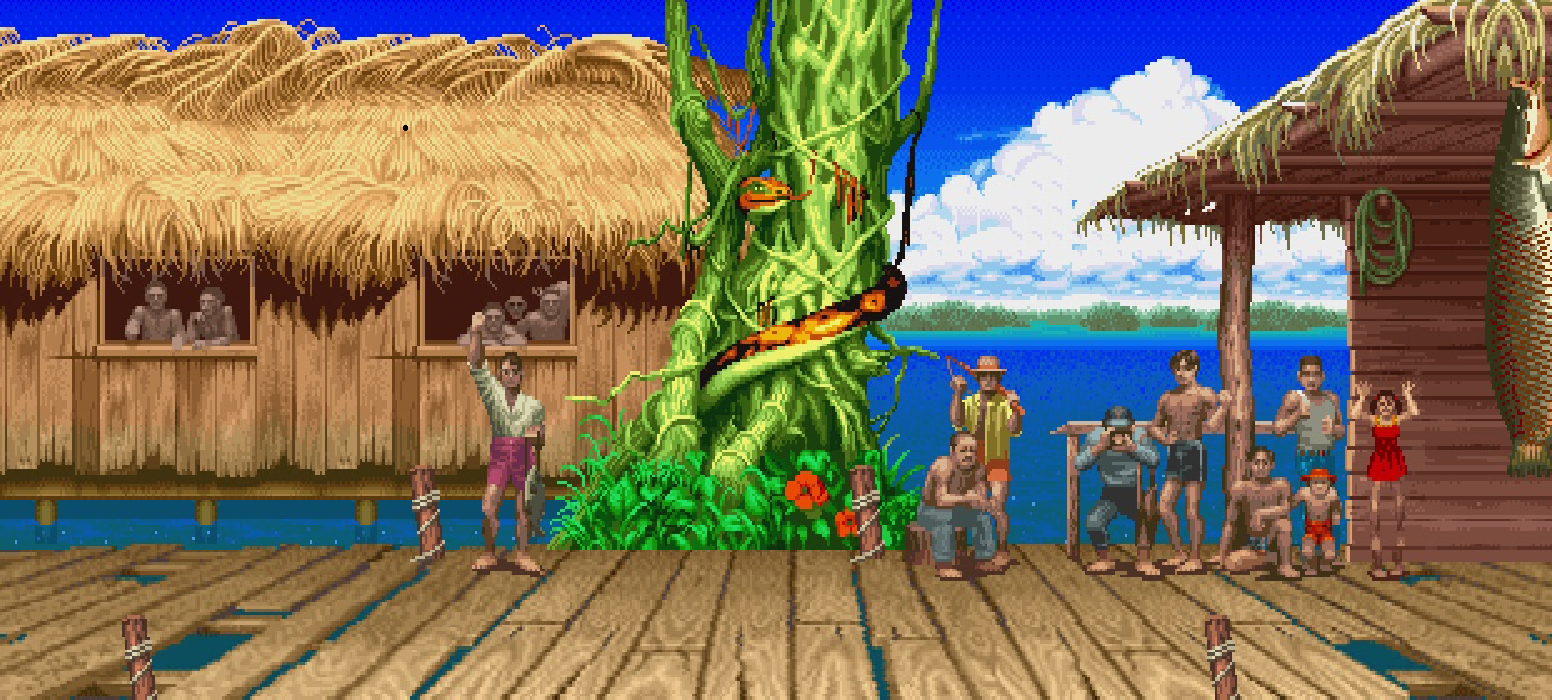
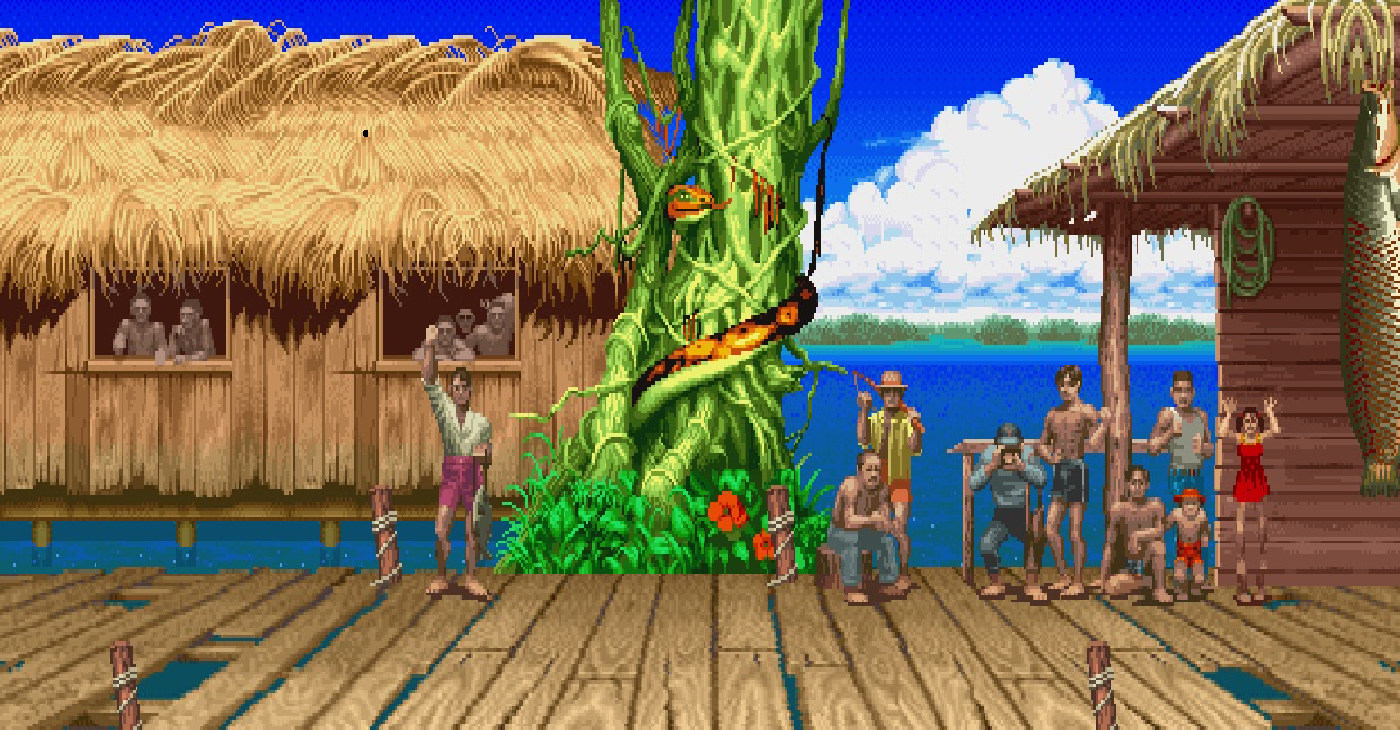
updated images, redid background size and margin for refresh button

diff --git a/style.css b/style.css
@@ -17,16 +17,17 @@ html {
 }
 
 body {
+  background-size: cover;
   margin: 0 auto;
-  width: 960px;
+  /*width: 960px;*/
   font-family: 'helvetica';
 }
 
 .refresh {
   margin-top: 110px;
-  margin-left: 385px;
+  margin-left: 520px;
   color: #e2600d;
-background: rgba(17, 17, 17, .5);
+  background: rgba(17, 17, 17, .5);
 }
 
 .fighter {
@@ -95,11 +96,11 @@ form {
 }
 
 #twitOne {
- position: absolute;
- top: 0;
- left: 0;
- display: inline-block;
- transition: 350ms;
+  position: absolute;
+  top: 0;
+  left: 0;
+  display: inline-block;
+  transition: 350ms;
 }
 
 #twitTwo {
@@ -227,14 +228,14 @@ form {
 }
 
 /*.fade_in {
-  animation: fadein 350ms;
+animation: fadein 350ms;
 }
 
 @keyframes fadein {
-  from {
-    opacity: 0;
-  }
-  to {
-    opacity: 1;
-  }
+from {
+opacity: 0;
+}
+to {
+opacity: 1;
+}
 }*/
